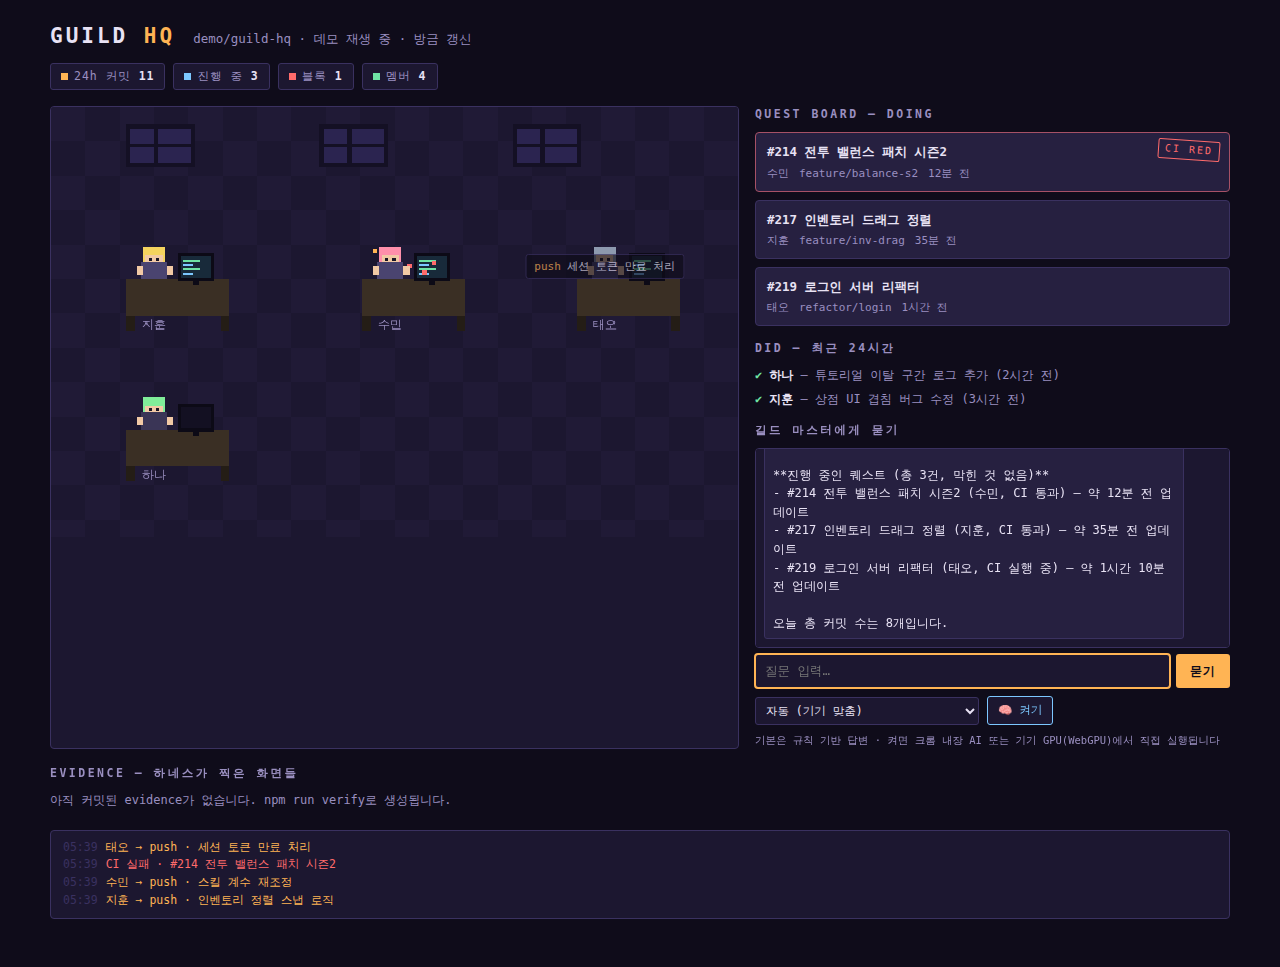
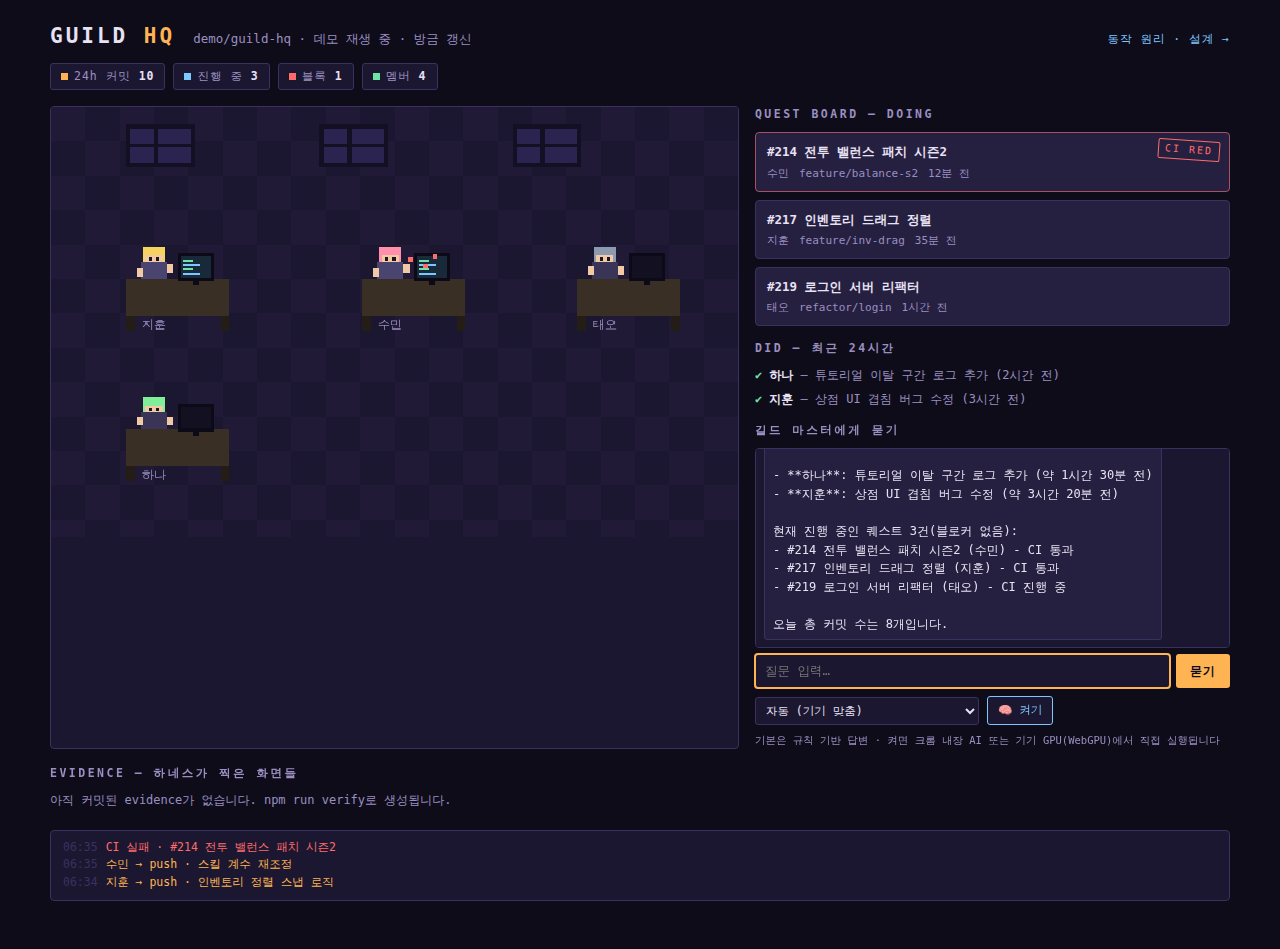
동작 원리·설계 문서 페이지(about.html) 추가, 대시보드 헤더에 링크
- 설계 원칙(작업 이벤트만 그린다), 아키텍처 다이어그램(SVG),
  화면↔데이터 1:1 규칙 표, 수집 구조, 배포 2모드 비교,
  Q&A 엔진 사다리, Evidence 루프, 보안 요약, 코드 지도 수록
- 대시보드 헤더 '동작 원리 · 설계 →' 링크, 라이브·정적(Pages) 양쪽 포함
- PWA 셸 캐시에 about.html 추가 (캐시 v2)
- 하네스에 문서 페이지 검증 2건 + 스크린샷 추가

검증: npm run verify 11/11 통과, about-page.png evidence 포함

Claude-Session: https://claude.ai/code/session_01ELsUVQAjdifXSpcZv86ZwV

diff --git a/public/about.html b/public/about.html
@@ -1,0 +1,189 @@
+<!doctype html>
+<html lang="ko">
+<head>
+<meta charset="utf-8">
+<meta name="viewport" content="width=device-width, initial-scale=1">
+<meta name="theme-color" content="#0f0c1a">
+<title>Guild HQ — 동작 원리와 설계</title>
+<link rel="stylesheet" href="style.css">
+<link rel="icon" href="icon.svg" type="image/svg+xml">
+<style>
+  .doc { max-width: 860px; margin: 0 auto; }
+  .doc h2 {
+    font-size: 13px; letter-spacing: 2.5px; color: var(--amber); font-weight: 700;
+    text-transform: uppercase; margin: 40px 0 12px; padding-top: 18px;
+    border-top: 1px solid var(--line);
+  }
+  .doc h2:first-of-type { border-top: 0; padding-top: 0; }
+  .doc p, .doc li { font-size: 13.5px; line-height: 1.8; color: var(--text); max-width: 68ch; }
+  .doc p + p { margin-top: 10px; }
+  .doc .dim { color: var(--dim); }
+  .doc ul, .doc ol { padding-left: 20px; display: flex; flex-direction: column; gap: 6px; margin: 10px 0; }
+  .doc code {
+    background: var(--floor); border: 1px solid var(--line); border-radius: 3px;
+    padding: 1px 5px; font-size: 12px;
+  }
+  .doc table {
+    border-collapse: collapse; width: 100%; font-size: 12.5px; margin: 12px 0;
+  }
+  .doc th, .doc td { border: 1px solid var(--line); padding: 7px 10px; text-align: left; vertical-align: top; }
+  .doc th { background: var(--floor); color: var(--dim); font-weight: 600; letter-spacing: 1px; font-size: 11.5px; }
+  .doc .table-wrap { overflow-x: auto; }
+  .diagram { background: var(--floor); border: 1px solid var(--line); border-radius: 4px; padding: 14px; margin: 14px 0; overflow-x: auto; }
+  .diagram svg { display: block; min-width: 620px; width: 100%; height: auto; }
+  .back { font-size: 12px; color: var(--sky); text-decoration: none; }
+  .back:hover { text-decoration: underline; }
+  .principle {
+    border: 1px solid color-mix(in srgb, var(--amber) 45%, var(--line));
+    background: color-mix(in srgb, var(--amber) 6%, var(--floor));
+    border-radius: 4px; padding: 12px 14px; margin: 14px 0; font-size: 13px; line-height: 1.7;
+  }
+  .principle b { color: var(--amber); }
+  footer { margin-top: 48px; padding-top: 14px; border-top: 1px solid var(--line); font-size: 11.5px; color: var(--dim); }
+</style>
+</head>
+<body>
+<div class="doc">
+  <header>
+    <h1>GUILD <span class="hq">HQ</span></h1>
+    <span class="sub">동작 원리와 설계</span>
+  </header>
+  <p style="margin-top:8px"><a class="back" href="./">← 대시보드로 돌아가기</a></p>
+
+  <h2>무엇을 푸는 도구인가</h2>
+  <p>팀장·대표가 <b>"누가 무엇을 했고, 지금 무엇을 하고 있고, 어디가 막혀 있는지"</b>를
+  사람에게 묻지 않고 알게 하는 자동 스탠드업 대시보드다. 스탠드업 미팅, "그거 어떻게 됐어?" 하는
+  질문, 진행 상황 보고서를 자동화된 화면 하나로 대체하는 것이 목표다.</p>
+  <div class="principle"><b>설계 원칙 — 출퇴근이 아니라 작업 이벤트를 그린다.</b><br>
+  자리에 있는지(presence)는 감시일 뿐 정보가 아니다. 이 화면의 모든 시각 요소는
+  실제 깃 이벤트에 1:1로 대응하며, 데이터에 없는 것은 그리지 않는다.
+  재미(픽셀 오피스)와 정확성(깃 히스토리)이 충돌하지 않는 이유다.</div>
+
+  <h2>전체 구조</h2>
+  <div class="diagram">
+  <svg viewBox="0 0 760 300" role="img" aria-label="Guild HQ 아키텍처: GitHub에서 수집기를 거쳐 스냅샷이 만들어지고, 대시보드와 Q&A가 이를 소비한다">
+    <style>
+      .box { fill: #262040; stroke: #3a3160; }
+      .box-amber { fill: #262040; stroke: #ffb454; }
+      .lbl { fill: #e8e2f4; font: 600 12px ui-monospace, monospace; }
+      .sub2 { fill: #9a8fc0; font: 10px ui-monospace, monospace; }
+      .arrow { stroke: #9a8fc0; stroke-width: 1.5; fill: none; marker-end: url(#ah); }
+    </style>
+    <defs><marker id="ah" markerWidth="8" markerHeight="8" refX="7" refY="4" orient="auto"><path d="M0,0 L8,4 L0,8 z" fill="#9a8fc0"/></marker></defs>
+    <rect class="box" x="10" y="20" width="150" height="72" rx="4"/>
+    <text class="lbl" x="24" y="44">GitHub 리포</text>
+    <text class="sub2" x="24" y="62">브랜치 · 커밋 · PR · CI</text>
+    <text class="sub2" x="24" y="78">.guild/evidence/</text>
+    <rect class="box" x="220" y="20" width="160" height="72" rx="4"/>
+    <text class="lbl" x="234" y="40">수집기</text>
+    <text class="sub2" x="234" y="58">① git fetch/log (필수)</text>
+    <text class="sub2" x="234" y="74">② REST API (보강)</text>
+    <rect class="box-amber" x="440" y="20" width="140" height="72" rx="4"/>
+    <text class="lbl" x="454" y="44">스냅샷</text>
+    <text class="sub2" x="454" y="62">members · quests</text>
+    <text class="sub2" x="454" y="78">did · stats · events</text>
+    <rect class="box" x="440" y="140" width="140" height="56" rx="4"/>
+    <text class="lbl" x="454" y="162">대시보드</text>
+    <text class="sub2" x="454" y="180">픽셀 씬 · 퀘스트 보드</text>
+    <rect class="box" x="610" y="140" width="140" height="56" rx="4"/>
+    <text class="lbl" x="624" y="162">Q&amp;A</text>
+    <text class="sub2" x="624" y="180">스냅샷 근거 답변</text>
+    <rect class="box" x="220" y="140" width="160" height="56" rx="4"/>
+    <text class="lbl" x="234" y="162">요약 (LLM/규칙)</text>
+    <text class="sub2" x="234" y="180">멤버별 한 줄 요약</text>
+    <rect class="box" x="10" y="230" width="370" height="52" rx="4"/>
+    <text class="lbl" x="24" y="252">검증 하네스 (Playwright)</text>
+    <text class="sub2" x="24" y="270">화면 검사 → 스크린샷 evidence 커밋 → 리포로 순환</text>
+    <path class="arrow" d="M160 56 L216 56"/>
+    <path class="arrow" d="M380 56 L436 56"/>
+    <path class="arrow" d="M300 136 L300 96"/>
+    <path class="arrow" d="M510 96 L510 136"/>
+    <path class="arrow" d="M580 76 C 660 90, 680 110, 680 136"/>
+    <path class="arrow" d="M195 256 C 120 220, 90 140, 85 96"/>
+  </svg>
+  </div>
+  <p class="dim">모든 작업은 결국 깃 푸시·PR로 나타난다는 사실을 이용해, 에이전트든 사람이든
+  어디서 작업하든(로컬 CLI·웹 원격 세션) <b>리포 하나만 계측</b>하면 전체가 보인다.</p>
+
+  <h2>화면 ↔ 데이터 1:1 규칙</h2>
+  <div class="table-wrap"><table>
+    <tr><th>화면 요소</th><th>실제 데이터</th></tr>
+    <tr><td>캐릭터 타이핑 · 모니터 켜짐</td><td>최근 2시간 내 푸시 (<code>workingWindowHours</code>)</td></tr>
+    <tr><td>책상의 불 🔥</td><td>담당 PR의 CI 실패</td></tr>
+    <tr><td>"QUEST COMPLETE!" 팡파레</td><td>PR 머지</td></tr>
+    <tr><td>Quest Board — Doing</td><td>열린 PR (API 불가 시: 기본 브랜치보다 앞선 피처 브랜치)</td></tr>
+    <tr><td>Did — 최근 24시간</td><td>커밋·머지 이력 + 한 줄 요약</td></tr>
+    <tr><td>Evidence 갤러리</td><td>하네스가 찍어 커밋한 스크린샷 (<code>.guild/evidence/</code>)</td></tr>
+    <tr><td>말풍선 · 티커</td><td>폴링 간 새로 나타난 커밋(이벤트 diff)</td></tr>
+  </table></div>
+
+  <h2>수집: git 필수, API 보강</h2>
+  <ul>
+    <li><b>git 트랜스포트</b> — 로컬 클론에서 <code>git fetch</code> 후 브랜치·커밋·작성자를 읽는다.
+      GitHub API가 막힌 네트워크에서도 동작하는 기본 경로. 멤버 목록은 설정 없이
+      커밋 작성자에서 자동 발견된다.</li>
+    <li><b>REST API 보강</b> — 접근 가능하면 열린 PR·CI 체크·머지 이력을 더한다.
+      첫 호출에서 401/403이면 스스로 비활성화되고 git 수집만으로 동작한다.</li>
+    <li><b>authorAliases</b> — 에이전트 커밋(<code>noreply@anthropic.com</code> 등)을
+      계정 주인 이름으로 귀속시킨다. 팀원 추가 시 이메일→이름 매핑만 늘리면 된다.</li>
+  </ul>
+
+  <h2>두 가지 배포 모드</h2>
+  <div class="table-wrap"><table>
+    <tr><th></th><th>라이브 서버</th><th>정적 스냅샷 (GitHub Pages)</th></tr>
+    <tr><td>구동</td><td><code>npm start</code> — 상시 프로세스</td><td>Actions가 푸시·매시간 빌드 → Pages 배포</td></tr>
+    <tr><td>갱신</td><td>60초 폴링 + SSE 실시간 푸시</td><td>빌드 시점 스냅샷 (<code>state.json</code>)</td></tr>
+    <tr><td>Q&amp;A</td><td>서버 LLM (API 키 → claude CLI 구독 → 규칙)</td><td>브라우저 온디바이스 (아래 사다리)</td></tr>
+    <tr><td>인증</td><td><code>GUILD_AUTH_TOKEN</code> 선택</td><td>없음 — 리포 공개 범위 그대로 공개</td></tr>
+    <tr><td>적합</td><td>사내망 팀 상황판</td><td>서버 0원 · 모바일 · PWA 설치</td></tr>
+  </table></div>
+  <p class="dim">프론트는 하나다 — <code>/api/state</code>가 응답하면 라이브, 없으면
+  <code>state.json</code>을 읽는 정적 모드로 자동 전환된다.</p>
+
+  <h2>Q&amp;A 엔진 사다리</h2>
+  <p>질문("오늘 뭐 됐어?", "막힌 거 있어?")은 현재 스냅샷을 근거로 답한다.
+  환경에 따라 가능한 가장 좋은 엔진이 자동 선택되고, 실패하면 아래로 폴백한다.</p>
+  <ol>
+    <li><b>서버 모드</b>: Anthropic API 키 → <b>claude CLI(Pro/Max 구독, 키 불필요)</b> → 규칙 기반</li>
+    <li><b>정적/브라우저 모드</b>: <b>크롬 내장 AI</b>(Gemini Nano, 다운로드 없음) →
+      <b>WebLLM</b>(Qwen3.5 0.8B~9B를 기기 GPU에서 실행, 기기 메모리 맞춤 자동 선택) → 규칙 기반</li>
+  </ol>
+  <p class="dim">어느 경로든 API 비용·구독 없이도 동작한다는 것이 핵심 —
+  규칙 기반은 LLM 없이 데이터 조회로 답한다.</p>
+
+  <h2>Evidence 루프: 증거가 첨부되는 개발</h2>
+  <p>에이전트(또는 사람)가 개발할 때의 순환이다:</p>
+  <ol>
+    <li>구현 후 <code>npm run verify</code> — 하네스가 서버를 띄우고 Playwright로 실제 화면을 연다</li>
+    <li>렌더링·Q&amp;A 왕복을 검사하고 스크린샷을 찍는다 (데모·라이브·모바일 정적 3종)</li>
+    <li>스크린샷 + 체크 결과가 <code>.guild/evidence/&lt;브랜치&gt;/</code>에 저장되고 <b>커밋된다</b></li>
+    <li>대시보드 Evidence 갤러리와 리뷰어가 같은 이미지를 본다 — "된다"는 말 대신 화면으로 증명</li>
+  </ol>
+
+  <h2>보안 설계 요약</h2>
+  <ul>
+    <li>서버는 기본 <code>127.0.0.1</code> 바인딩 — 개방은 <code>HOST</code> 명시 + 토큰 인증 권장</li>
+    <li>LLM 호출 동시 2건 제한 — 구독·크레딧 소진 공격 방지</li>
+    <li>커밋 메시지·질문은 신뢰할 수 없는 입력으로 취급 — CLI 모드는 도구 완전 비활성(<code>--tools ""</code>),
+      프롬프트에 데이터/지시 경계 명시</li>
+    <li>잔여 위험 고지: 조작된 커밋 메시지가 요약 "문구"를 왜곡할 가능성은 LLM 특성상 0이 될 수 없다.
+      현황판은 참고용, 원본은 항상 깃 히스토리다</li>
+  </ul>
+
+  <h2>코드 지도</h2>
+  <div class="table-wrap"><table>
+    <tr><th>경로</th><th>역할</th></tr>
+    <tr><td><code>server/collect/git.js</code></td><td>git 트랜스포트 (브랜치·커밋·작성자, 별칭 적용)</td></tr>
+    <tr><td><code>server/collect/api.js</code></td><td>REST 보강 (PR·CI, 자동 비활성화)</td></tr>
+    <tr><td><code>server/state.js</code></td><td>스냅샷 조립 (members/quests/did/stats/events)</td></tr>
+    <tr><td><code>server/llm.js</code> · <code>ask.js</code> · <code>summarize.js</code></td><td>LLM 백엔드 선택 · Q&amp;A · 한 줄 요약</td></tr>
+    <tr><td><code>server/index.js</code></td><td>HTTP 서버 (정적 · SSE · /api/* · 인증 · evidence)</td></tr>
+    <tr><td><code>public/app.js</code></td><td>프론트 (씬 렌더링 · 이중 모드 · 온디바이스 LLM)</td></tr>
+    <tr><td><code>scripts/build-static.mjs</code> · <code>.github/workflows/pages.yml</code></td><td>정적 빌드 · Pages 배포</td></tr>
+    <tr><td><code>harness/verify.mjs</code></td><td>검증 하네스 (스크린샷 evidence)</td></tr>
+  </table></div>
+
+  <footer>Guild HQ · <a class="back" href="https://github.com/jungrok5/virtual-office">github.com/jungrok5/virtual-office</a></footer>
+</div>
+</body>
+</html>

diff --git a/public/sw.js b/public/sw.js
@@ -1,7 +1,7 @@
 // PWA 서비스워커 (정적 모드에서만 등록됨).
 // 앱 셸은 캐시 우선, 데이터(state.json/evidence)는 네트워크 우선 + 오프라인 폴백.
-const CACHE = 'guild-hq-v1';
-const SHELL = ['./', 'index.html', 'style.css', 'app.js', 'manifest.json', 'icon.svg'];
+const CACHE = 'guild-hq-v2';
+const SHELL = ['./', 'index.html', 'about.html', 'style.css', 'app.js', 'manifest.json', 'icon.svg'];
 
 self.addEventListener('install', (e) => {
   e.waitUntil(caches.open(CACHE).then((c) => c.addAll(SHELL)).then(() => self.skipWaiting()));

diff --git a/public/style.css b/public/style.css
@@ -25,6 +25,8 @@ header { display: flex; flex-wrap: wrap; align-items: baseline; gap: 10px 18px; 
 h1 { font-size: 21px; letter-spacing: 3px; }
 h1 .hq { color: var(--amber); }
 .sub { color: var(--dim); font-size: 12.5px; }
+.doc-link { margin-left: auto; font-size: 11.5px; color: var(--sky); text-decoration: none; letter-spacing: 1px; }
+.doc-link:hover { text-decoration: underline; }
 .chips { display: flex; gap: 8px; flex-wrap: wrap; margin: 10px 0 16px; }
 .chip {
   font-size: 11.5px; letter-spacing: 1px; padding: 4px 10px;

diff --git a/public/index.html b/public/index.html
@@ -14,6 +14,7 @@
   <header>
     <h1>GUILD <span class="hq">HQ</span></h1>
     <span class="sub" id="repo-label">연결 중…</span>
+    <a class="doc-link" href="about.html">동작 원리 · 설계 →</a>
   </header>
   <div class="chips">
     <span class="chip"><span class="dot amber"></span>24h 커밋 <b id="c-commits">–</b></span>
